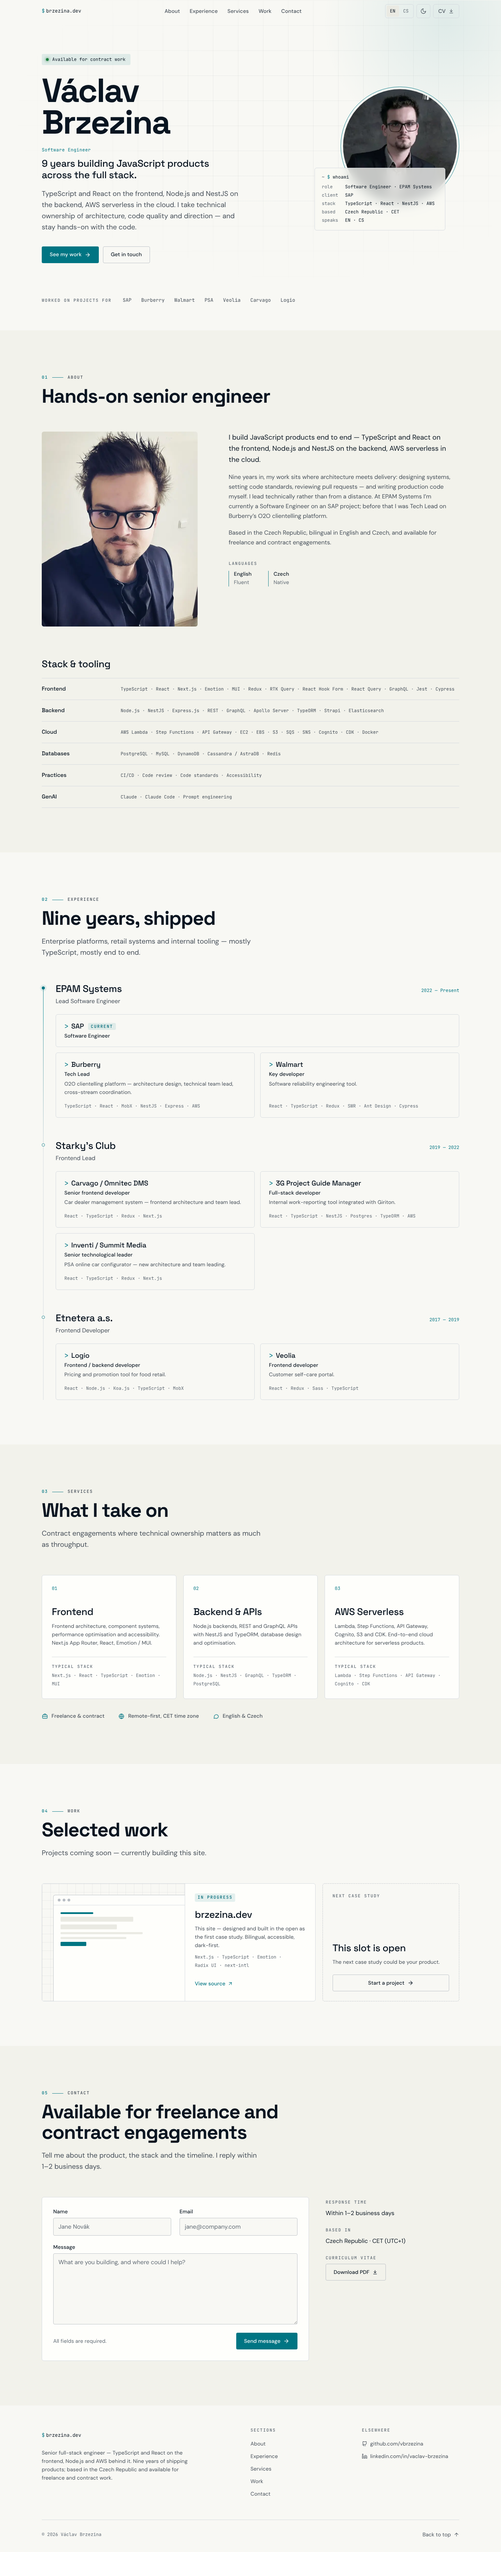
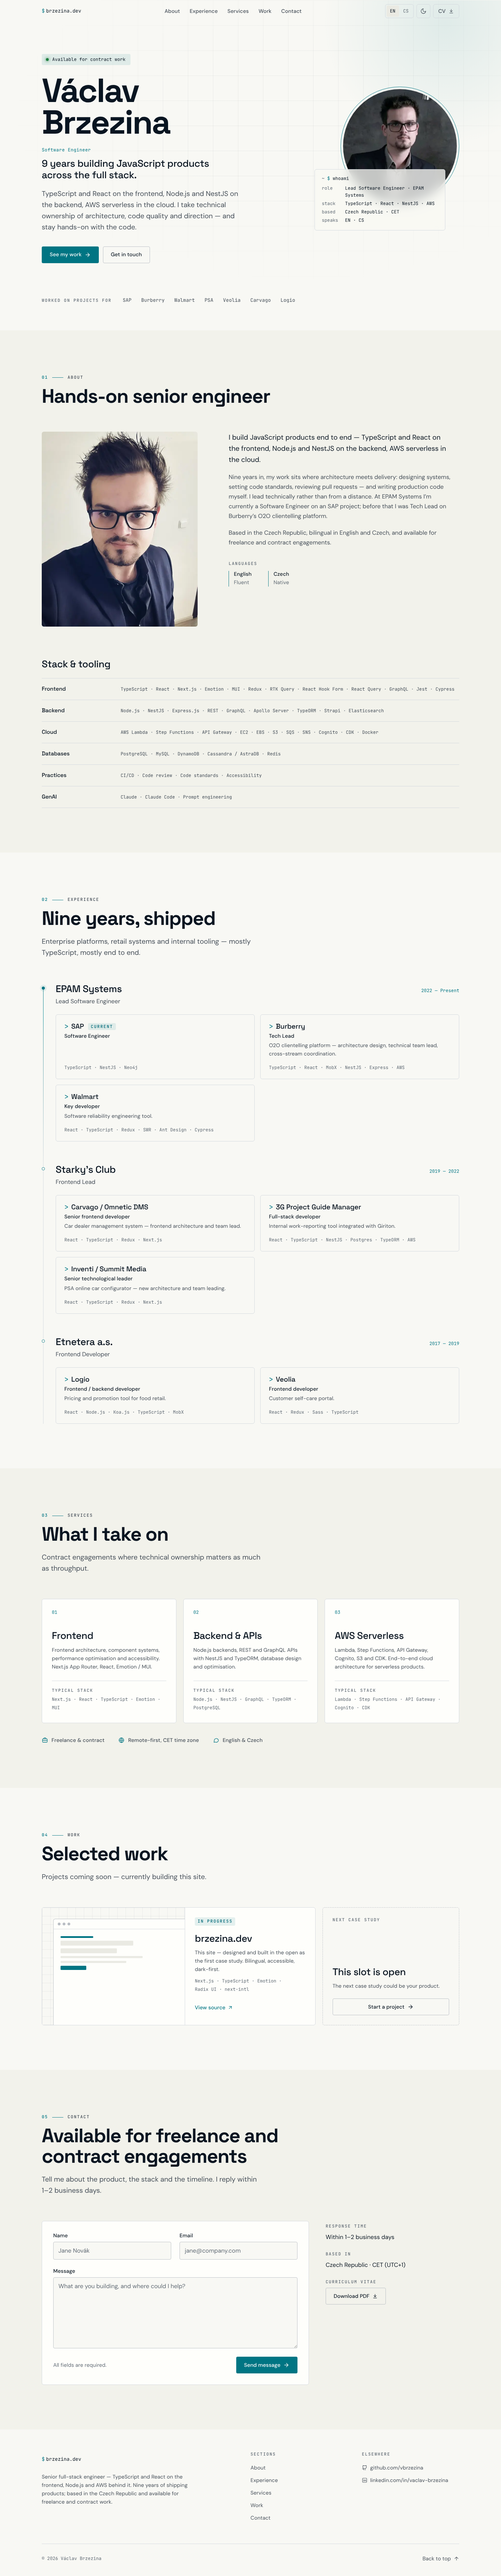
fix(content): correct client name to Omnetic DMS
Claude-Session: https://claude.ai/code/session_013mW6ZWY6digWVBj5YtAxDN

diff --git a/src/data/experience.ts b/src/data/experience.ts
@@ -36,7 +36,7 @@ export const EXPERIENCE: readonly Employer[] = [
     start: 2019,
     end: 2022,
     projects: [
-      { id: 'carvago', client: 'Carvago / Omnitec DMS', stack: ['React', 'TypeScript', 'Redux', 'Next.js'] },
+      { id: 'carvago', client: 'Carvago / Omnetic DMS', stack: ['React', 'TypeScript', 'Redux', 'Next.js'] },
       { id: 'pgm', client: '3G Project Guide Manager', stack: ['React', 'TypeScript', 'NestJS', 'Postgres', 'TypeORM', 'AWS'] },
       { id: 'inventi', client: 'Inventi / Summit Media', stack: ['React', 'TypeScript', 'Redux', 'Next.js'] },
     ],

diff --git a/docs/design/redesign-2026-10.md b/docs/design/redesign-2026-10.md
@@ -175,7 +175,7 @@ Only `transform` and `opacity` are animated for movement. No looping animation a
 - **Company header:** name in `titleL`, title in `bodyM` fg-secondary; period in `monoS` accent, right-aligned on desktop and above the name on mobile.
 - **Current project** (`current: true` in the data) gets a small `CURRENT` tag and otherwise looks like every other project card; description and stack are optional, so a project can appear before its details are shareable.
 - **Projects:** two-column grid from `lg` up (cuts the section height roughly in half). Cards in the same row share a height, with the stack line pinned to the bottom, so rows read as clean bands; across rows heights follow content (forcing one global height would pad short cards with empty space). Each project: `> Client` (`titleM`, accent `>`), role (`bodyS` fg), description (`bodyS` fg-secondary), StackList.
-- Content is the real CV: EPAM (SAP — current project, Burberry, Walmart), Starky's Club (Carvago/Omnitec DMS, 3G Project Guide Manager, Inventi/Summit Media — PSA), Etnetera (Logio, Veolia).
+- Content is the real CV: EPAM (SAP — current project, Burberry, Walmart), Starky's Club (Carvago/Omnetic DMS, 3G Project Guide Manager, Inventi/Summit Media — PSA), Etnetera (Logio, Veolia).
 
 ### 03 Services — "What I take on"
 - 3 equal cards (`surface`, hairline, 6px radius): `01` counter, title `titleL`, description `bodyS`, hairline, `TYPICAL STACK` eyebrow + StackList. Hover → `border-strong`, card lifts 2px.
